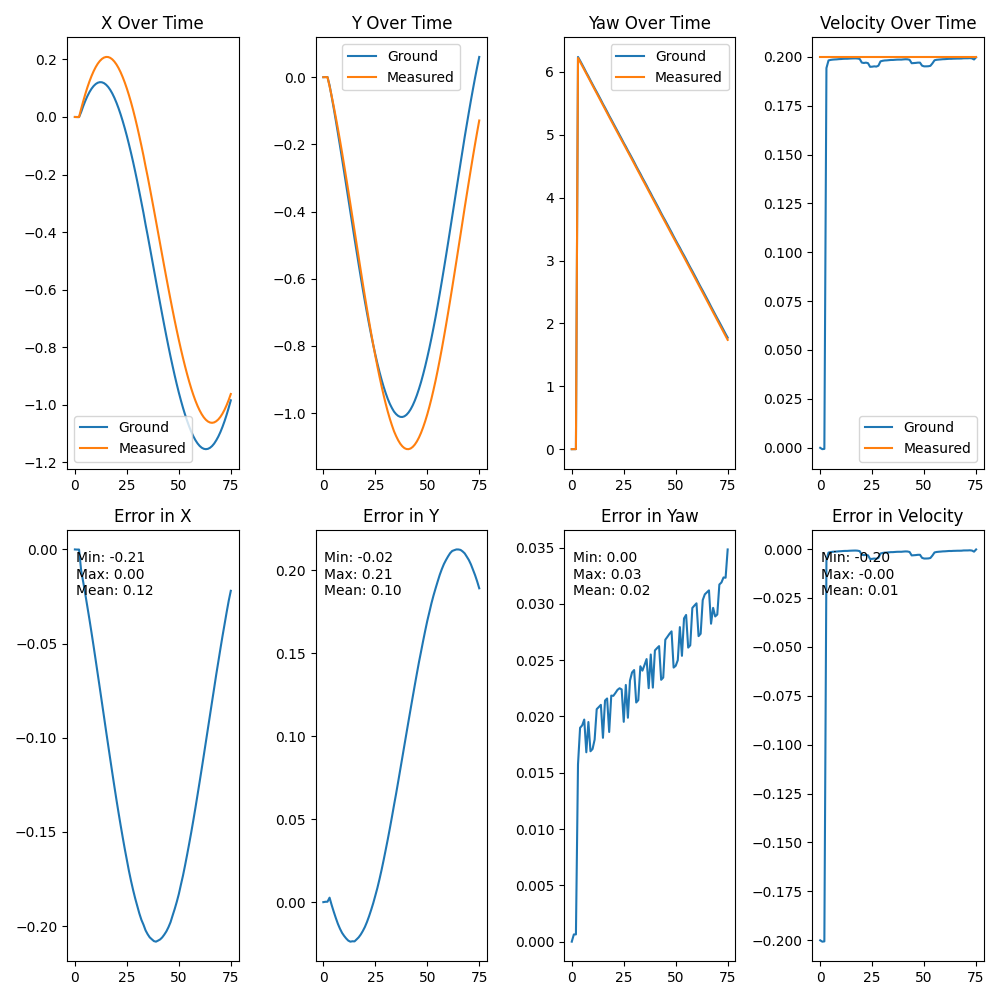
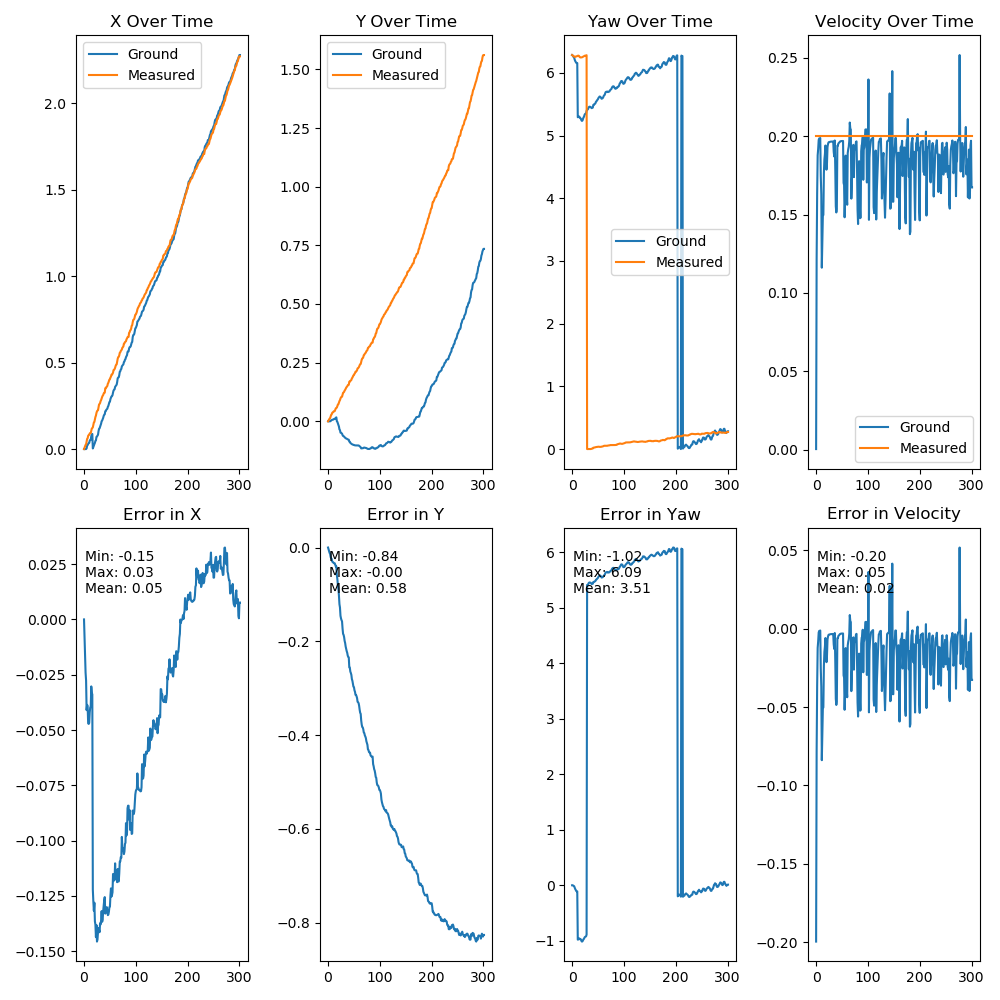
a

diff --git a/control/scripts/test.py b/control/scripts/test.py
@@ -383,7 +383,7 @@ class StateMachine():
         command = json.loads(msg.data)
         command_msg = self.messageConverter.get_command(**command)
         # print(command_msg)
-        self.serialCom.write(command_msg.encode('ascii'))
+        self.serialCom.write(coffsetommand_msg.encode('ascii'))
         # buffer_size = self.serialCom.out_waiting
         # print("Buffer size:", buffer_size)
 
@@ -461,10 +461,11 @@ class StateMachine():
             print(self.initialPoints)
             if self.initialPoints is None:
                 self.tests = []
-                self.testDuration = 15.0
-                self.testSpeed = 0.2
+                self.testDuration = 31.0
+                self.testSpeed = 0.5
                 self.testAngle = 23.0
-                self.updateMethod = "euler"
+                self.updateMethod = "rk4"
+                self.followLane = True
                 self.update_states = self.update_states_rk4 if self.updateMethod=="rk4" else self.update_states_euler
                 self.tests.append([self.testDuration,  self.testSpeed, self.testAngle]) # duration, speed, angle
                 self.initialPoints = np.array([self.gps_x, self.gps_y, self.yaw])
@@ -519,12 +520,14 @@ class StateMachine():
 
                     stats_text = f"Min: {min_error:.2f}\nMax: {max_error:.2f}\nMean: {mean_error:.2f}"
                     axs[1, i].text(0.05, 0.95, stats_text, transform=axs[1, i].transAxes, verticalalignment='top')
-
+                self.testAngle = "_lanefollow" if self.followLane else self.testAngle
                 plt.tight_layout()
                 plt.savefig(f'/home/simonli/Documents/Simulator/src/control/scripts/testPlots/plot_{self.updateMethod}_Dur{self.testDuration}_vel{self.testSpeed}_angle{self.testAngle}_rate{int(round(self.rateVal))}.png')
                 exit()
                 return 1
-            self.update_states(self.velocity, self.testAngle)
+            self.testAngle = np.clip(self.get_steering_angle()*180/np.pi, -23, 23) if self.followLane else self.testAngle
+            print("testAngle: ", self.testAngle)
+            self.update_states(self.testSpeed, self.testAngle)
             groundYaw = self.yaw-self.initialPoints[2]
             groundYaw = np.fmod(groundYaw, 2*np.pi)
             if groundYaw < 0:
@@ -617,125 +620,125 @@ class StateMachine():
     #actions
     def lanefollow(self):
         #transition events
-        if self.stop_sign_detected() and self.timer2 is None:
-            print("stop sign detected -> state 1")
-            self.intersectionStop = True
-            self.state = 1
-            self.timer0 = None
-            self.timer2 = None
-            return 1
-        elif self.light_detected() and self.timer2 is None:
-            if self.is_green():
-                print("green light detected -> state 1")
-                self.intersectionStop = False
-            else:
-                print("red light detected -> state 1")
-                self.intersectionStop = True
-                self.light = True
-            self.state = 1
-            self.timer2 = None
-            self.timer0 = None
-            return 1
-        elif self.crosswalk_sign_detected() and self.timer2 is None:
-            print("crosswalk sign detected -> state 4")
-            self.state = 4
-            return 1
-        elif self.pedestrian_appears():
-            print("pedestrian appears!!! -> state 5")
-            self.history = self.state
-            self.state = 5
-            self.timerPedestrian = rospy.Time.now()+rospy.Duration(2.5)
-            return 1
-        car_sizes =  self.get_car_size(minSize = 100)
-        num = len(car_sizes)
-        rightCar = False
-        for box in car_sizes:
-            if box[0] + box[2]/2 > 144:
-                rightCar = True
-                break
-        if num > 0 and rightCar and rospy.Time.now() > self.exitCD:
-            if self.timerO is None:
-                print("car detected, waiting for 2s to ascertain car's speed")
-                self.timerO = rospy.Time.now() + rospy.Duration(2)
-                self.highwaySide = 1
-                self.numCars, self.firstDetectionSizes = num, car_sizes
-            if rospy.Time.now() >= self.timerO:
-                if num < 2:
-                    print("only one car, overtake, side is ", self.highwaySide) 
-                    self.timerO = None
-                    self.history = self.state
-                    self.overtakeAngle = np.pi*0.3
-                    self.state = 7 #overtake
-                    return 1
-                self.idle()
-                return 0
-            else:
-                self.publish_cmd_vel(0,0)
-                return 0
-        if self.timer2 is not None and rospy.Time.now() >= self.timer2 and self.highwaySide == -1:
-            #go back to right side
-            print("timer2 expired & no car in sight. going back to right side")
-            self.timerO = None
-            self.timer2 = None
-            self.history = self.state
-            self.overtakeAngle = np.pi*0.2
-            self.state = 7 #switch lane
-            return 1
+        # if self.stop_sign_detected() and self.timer2 is None:
+        #     print("stop sign detected -> state 1")
+        #     self.intersectionStop = True
+        #     self.state = 1
+        #     self.timer0 = None
+        #     self.timer2 = None
+        #     return 1
+        # elif self.light_detected() and self.timer2 is None:
+        #     if self.is_green():
+        #         print("green light detected -> state 1")
+        #         self.intersectionStop = False
+        #     else:
+        #         print("red light detected -> state 1")
+        #         self.intersectionStop = True
+        #         self.light = True
+        #     self.state = 1
+        #     self.timer2 = None
+        #     self.timer0 = None
+        #     return 1
+        # elif self.crosswalk_sign_detected() and self.timer2 is None:
+        #     print("crosswalk sign detected -> state 4")
+        #     self.state = 4
+        #     return 1
+        # elif self.pedestrian_appears():
+        #     print("pedestrian appears!!! -> state 5")
+        #     self.history = self.state
+        #     self.state = 5
+        #     self.timerPedestrian = rospy.Time.now()+rospy.Duration(2.5)
+        #     return 1
+        # car_sizes =  self.get_car_size(minSize = 100)
+        # num = len(car_sizes)
+        # rightCar = False
+        # for box in car_sizes:
+        #     if box[0] + box[2]/2 > 144:
+        #         rightCar = True
+        #         break
+        # if num > 0 and rightCar and rospy.Time.now() > self.exitCD:
+        #     if self.timerO is None:
+        #         print("car detected, waiting for 2s to ascertain car's speed")
+        #         self.timerO = rospy.Time.now() + rospy.Duration(2)
+        #         self.highwaySide = 1
+        #         self.numCars, self.firstDetectionSizes = num, car_sizes
+        #     if rospy.Time.now() >= self.timerO:
+        #         if num < 2:
+        #             print("only one car, overtake, side is ", self.highwaySide) 
+        #             self.timerO = None
+        #             self.history = self.state
+        #             self.overtakeAngle = np.pi*0.3
+        #             self.state = 7 #overtake
+        #             return 1
+        #         self.idle()
+        #         return 0
+        #     else:
+        #         self.publish_cmd_vel(0,0)
+        #         return 0
+        # if self.timer2 is not None and rospy.Time.now() >= self.timer2 and self.highwaySide == -1:
+        #     #go back to right side
+        #     print("timer2 expired & no car in sight. going back to right side")
+        #     self.timerO = None
+        #     self.timer2 = None
+        #     self.history = self.state
+        #     self.overtakeAngle = np.pi*0.2
+        #     self.state = 7 #switch lane
+        #     return 1
         
-        roadblock_sizes =  self.get_obj_size(obj_id = 10)
-        num = len(roadblock_sizes)
-        rightBlock = False
-        for box in roadblock_sizes:
-            if box[0] + box[2]/2 > 144:
-                rightBlock = True
-                break
-        if num > 0 and rightBlock:
-            if self.timerO is None:
-                print("roadblock detected, waiting for 2s to ascertain position")
-                self.timerO = rospy.Time.now() + rospy.Duration(2)
-                self.highwaySide = 1
-            if rospy.Time.now() >= self.timerO and num < 2:
-                print("overtake roadblock!") 
-                self.timerO = None
-                self.history = self.state
-                self.overtakeAngle = np.pi*0.3
-                self.roadblock = True
-                self.state = 7 #overtake
-                return 1
-            else:
-                self.publish_cmd_vel(0,0)
-                return 0
-        elif self.parking_detected():
-            # if not at parking decision yet pass
-            if self.decisionsI >= len(self.decisions):
-                self.publish_cmd_vel(self.get_steering_angle())
-                return 0
-            elif (self.decisions[self.decisionsI] != 3 and self.decisions[self.decisionsI] != 4):
-                self.publish_cmd_vel(self.get_steering_angle())
-                return 0
-            if self.detected_objects[0] == 4:
-                self.parksize = max(self.box1[2], self.box1[3])
-                try:
-                    if self.detected_objects[1] == 12:
-                        self.carsize = max(self.box2[2], self.box2[3])
-                except:
-                    self.carsize = 0
-            else:
-                self.parksize = max(self.box2[2], self.box2[3])
-                if self.detected_objects[0] == 12:
-                    self.carsize = max(self.box1[2], self.box1[3])
-            self.parksize = self.parksize*0.00263
-            print("about to park -> 9")
-            self.timer0 = None
-            self.state = 9
-            return 1
-        elif self.ArrivedAtStopline:
-            print("signless intersection detected... -> state 3")
-            self.doneManeuvering = False #set to false before entering state 3
-            self.state = 3
-            self.timer0 = None
-            self.timer2 = None
-            return 1
+        # roadblock_sizes =  self.get_obj_size(obj_id = 10)
+        # num = len(roadblock_sizes)
+        # rightBlock = False
+        # for box in roadblock_sizes:
+        #     if box[0] + box[2]/2 > 144:
+        #         rightBlock = True
+        #         break
+        # if num > 0 and rightBlock:
+        #     if self.timerO is None:
+        #         print("roadblock detected, waiting for 2s to ascertain position")
+        #         self.timerO = rospy.Time.now() + rospy.Duration(2)
+        #         self.highwaySide = 1
+        #     if rospy.Time.now() >= self.timerO and num < 2:
+        #         print("overtake roadblock!") 
+        #         self.timerO = None
+        #         self.history = self.state
+        #         self.overtakeAngle = np.pi*0.3
+        #         self.roadblock = True
+        #         self.state = 7 #overtake
+        #         return 1
+        #     else:
+        #         self.publish_cmd_vel(0,0)
+        #         return 0
+        # elif self.parking_detected():
+        #     # if not at parking decision yet pass
+        #     if self.decisionsI >= len(self.decisions):
+        #         self.publish_cmd_vel(self.get_steering_angle())
+        #         return 0
+        #     elif (self.decisions[self.decisionsI] != 3 and self.decisions[self.decisionsI] != 4):
+        #         self.publish_cmd_vel(self.get_steering_angle())
+        #         return 0
+        #     if self.detected_objects[0] == 4:
+        #         self.parksize = max(self.box1[2], self.box1[3])
+        #         try:
+        #             if self.detected_objects[1] == 12:
+        #                 self.carsize = max(self.box2[2], self.box2[3])
+        #         except:
+        #             self.carsize = 0
+        #     else:
+        #         self.parksize = max(self.box2[2], self.box2[3])
+        #         if self.detected_objects[0] == 12:
+        #             self.carsize = max(self.box1[2], self.box1[3])
+        #     self.parksize = self.parksize*0.00263
+        #     print("about to park -> 9")
+        #     self.timer0 = None
+        #     self.state = 9
+        #     return 1
+        # elif self.ArrivedAtStopline:
+        #     print("signless intersection detected... -> state 3")
+        #     self.doneManeuvering = False #set to false before entering state 3
+        #     self.state = 3
+        #     self.timer0 = None
+        #     self.timer2 = None
+        #     return 1
         # Determine the steering angle based on the center and publish the steering command
         self.publish_cmd_vel(self.get_steering_angle())
         return 0
@@ -2296,7 +2299,7 @@ class StateMachine():
         else:
             conf_thresh = 0.8
         return size >= self.min_sizes[obj_id] and size <= self.max_sizes[obj_id] and conf >= conf_thresh #check this
-    def get_steering_angle(self,offset=30):
+    def get_steering_angle(self,offset=0):#30):
         """
         Determine the steering angle based on the lane center
         :param center: lane center
@@ -2312,6 +2315,7 @@ class StateMachine():
             return 0
         self.last = error
         steering_angle = (error*self.p+d_error*self.d)
+        # print("steering angle: ",steering_angle*180/np.pi)
         return steering_angle
     def publish_cmd_vel_real(self, steering_angle, velocity = None, clip = True):
         """
@@ -2337,7 +2341,7 @@ class StateMachine():
         self.msg.data = '{"action":"1","speed":'+str(velocity)+'}'
         self.msg2.data = '{"action":"2","steerAngle":'+str(float(steering_angle))+'}'
         # print(self.msg.data)
-        # print(self.msg2.data)
+        print("publishing: ",self.msg2.data)
         self.cmd_vel_pub.publish(self.msg)
         self.cmd_vel_pub.publish(self.msg2)
 

diff --git a/control/src/lane.cpp b/control/src/lane.cpp
@@ -48,7 +48,7 @@ public:
             lane_msg.center = center;
             lane_msg.stopline = stopline;
             lane_msg.header.stamp = ros::Time::now();
-            // lane_pub.publish(lane_msg);
+            lane_pub.publish(lane_msg);
 
         } catch (cv_bridge::Exception& e) {
             ROS_ERROR("Could not convert from '%s' to 'bgr8'.", msg->encoding.c_str());

diff --git a/control/src/signFastest.cpp b/control/src/signFastest.cpp
@@ -65,7 +65,7 @@ void imageCallback(const sensor_msgs::ImageConstPtr &msg, yoloFastestv2 *api, ro
     }
 
     // Publish Sign message
-    // pub->publish(sign_msg);
+    pub->publish(sign_msg);
     auto stop = high_resolution_clock::now();
     auto duration = duration_cast<microseconds>(stop - start);
     // std::cout << "sign durations: " << duration.count() << std::endl;
